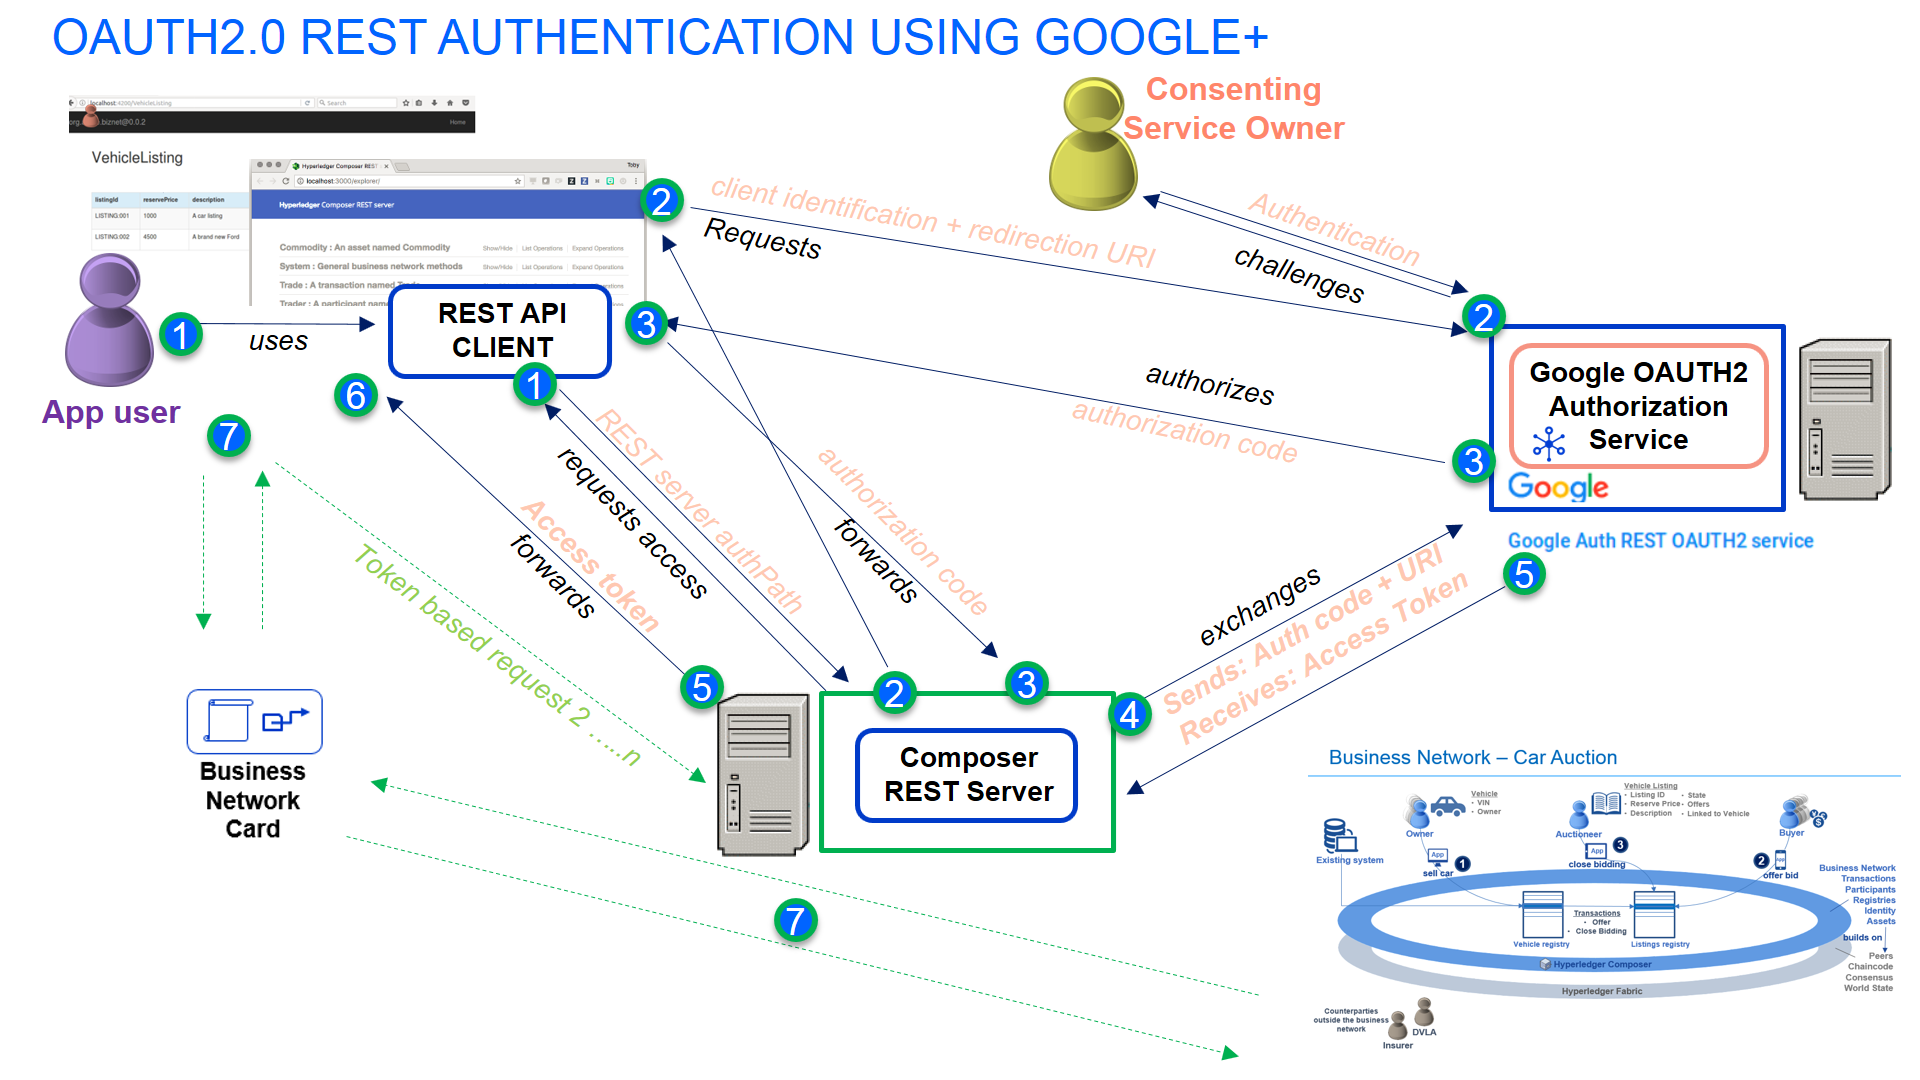
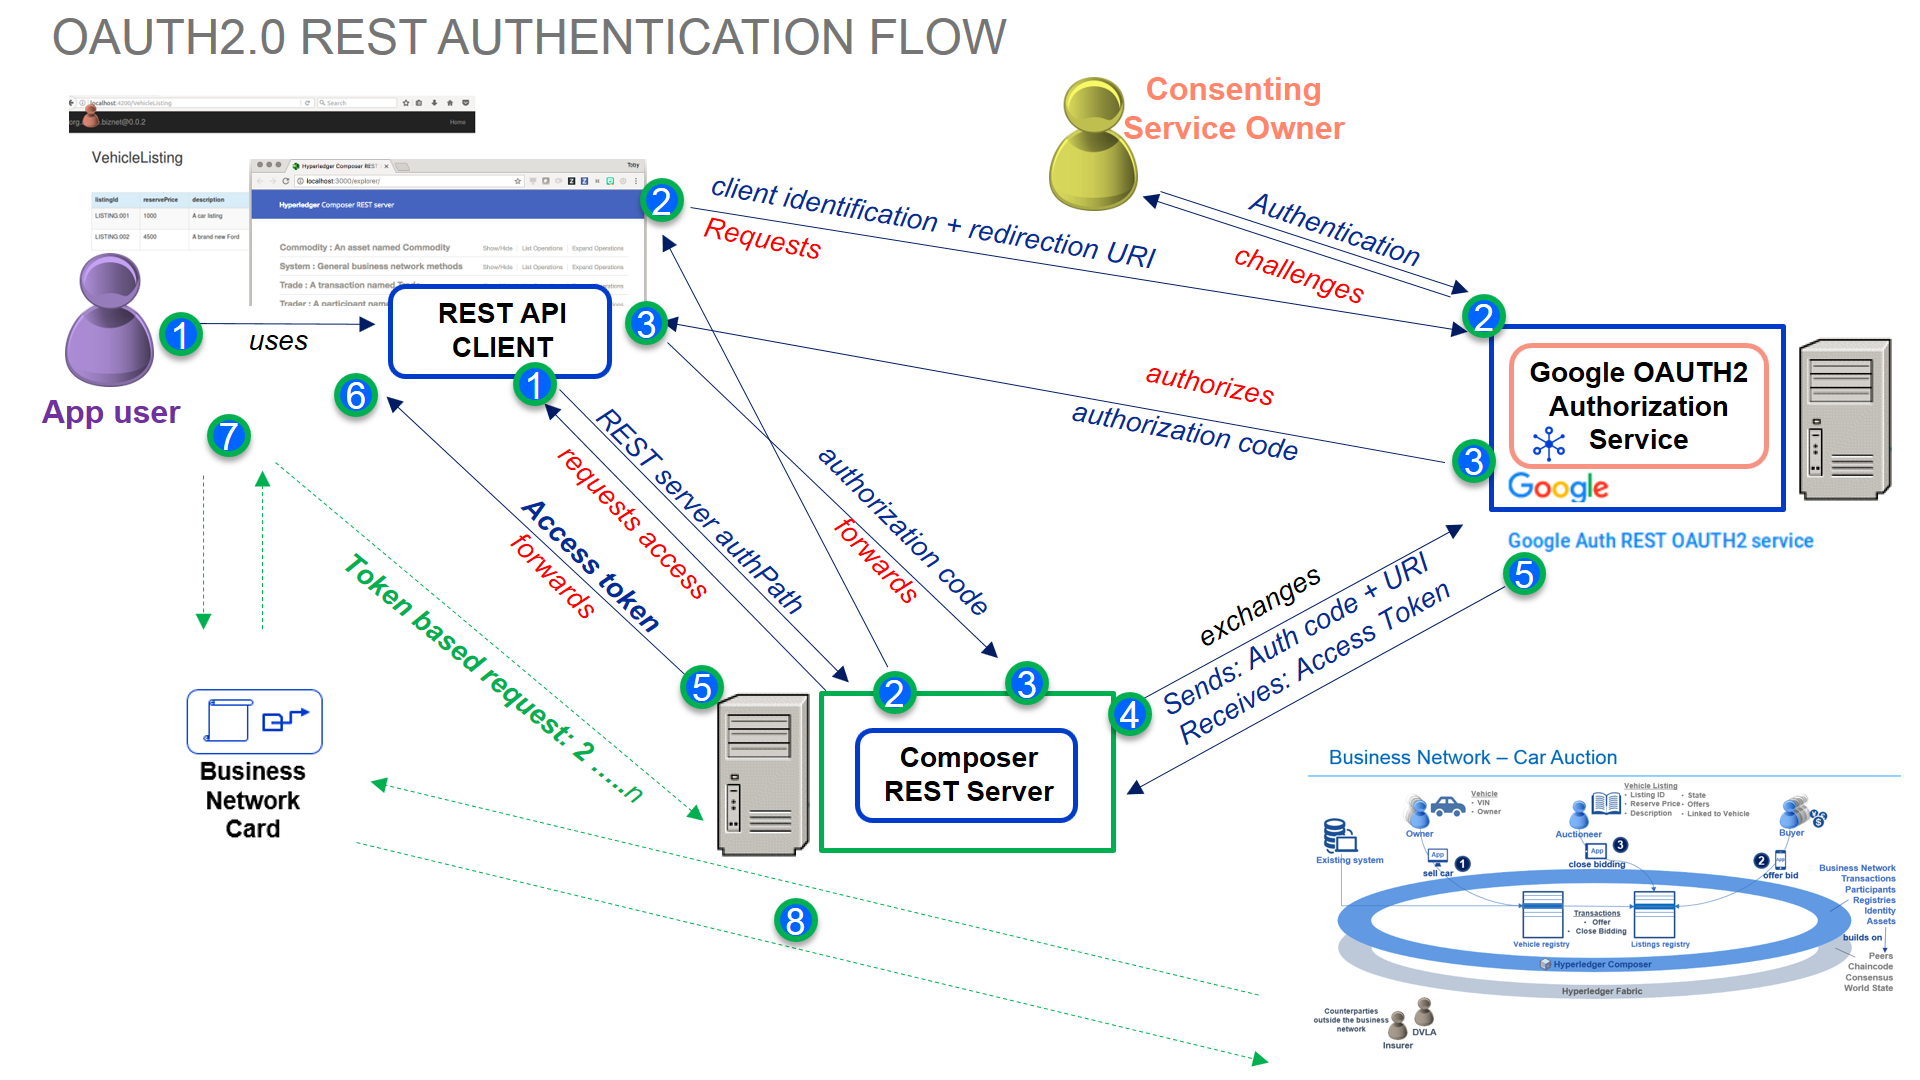
Add overview OAUTH2.0  diagram, add corrections in doc (#3629)
* Add Overview diagram, added some corrections

* Added Google auth img files

diff --git a/packages/composer-website/jekylldocs/tutorials/google_oauth2_rest.md b/packages/composer-website/jekylldocs/tutorials/google_oauth2_rest.md
@@ -10,15 +10,19 @@ sidebar: sidebars/accordion-toc0.md
 # Configuring Google OAUTH2.0 Authentication Strategy with a persistent Composer REST server instance
 
 
-This tutorial provides an insight into configuring the OAUTH2.0 authentication strategy  (eg. for Google, Facebook, Twitter authentication providers etc) to authorize access to resources in a configured REST Server instance - and allow end users of a blockchain network to interact with a deployed smart contract/business network - the Commodity Trading network in this tutorial. You will run the REST server in [multi user mode](https://hyperledger.github.io/composer/next/integrating/enabling-multiuser.html) and test interacting with the network as different blockchain identities, accessing resources through the REST APIs. Ideally, you will need to set up your own Google account / authorization scheme to do this (see appendix on the steps to do this - doesn't take long), or minimally, use the ID/metadata provided in this tutorial. Suffice to say, it uses {{site.data.conrefs.composer_full}} as the underlying blockchain network.
+This tutorial provides an insight into configuring the OAUTH2.0 authentication strategy  (eg. for Google, Facebook, Twitter authentication providers etc) to authorize access to resources in a configured REST Server instance - and allow end users of a blockchain network to interact with a deployed smart contract/business network - the Commodity Trading network in this tutorial (an overview diagram is shown below - a more detailed diagram showing the authentication flow is shown further down). You will run the REST server in [multi user mode](https://hyperledger.github.io/composer/next/integrating/enabling-multiuser.html) and test interacting with the network as different blockchain identities, accessing resources through the REST APIs. Ideally, you will need to set up your own Google account / authorization scheme to do this (see appendix on the steps to do this - doesn't take long), or minimally, use the ID/metadata provided in this tutorial. Suffice to say, it uses {{site.data.conrefs.composer_full}} as the underlying blockchain network.
+
+![Google Authentication and REST Server Overview](../assets/img/tutorials/auth/intro_diagram.png)
+
 
 Note: we have set up the standard 'Development Fabric' network as instructed in Step 3 'Setting up your IDE' described [here](https://hyperledger.github.io/composer/next/installing/development-tools.html)
-
-![Google+ Authentication and Authorization](../assets/img/tutorials/auth/auth_diagram.png)
 
 There are many Passport strategies one can choose from. In a business organisational sense, enterprise strategies such as SAML, JSON Web Tokens (JWT) or LDAP are more appropriate obviously - eg an organisational Active Directory server. We use/enable Google+ APIs as the authentication provider for this tutorial, as its easy for anyone to setup a Google account (see Appendix on how to achieve this) and configure the service / do the tutorial without worrying about middleware prereqs to be installed.
 
 OAUTH2.0 is really an 'authorization protocol' but can be used as a 'delegated authentication scheme' - authentication normally means identifying a user by his or her own credentials, whereas the OAUTH2.0 authentication, as used here, is used as a 'delegate' authentication scheme. There are a number of 'roles' to expand on here by way of background. The Composer REST server's role is to provide access to business network resources, which are protected by the Google+ API OAuth2.0 scheme. The resource owner is the Google+ API user account we set up (described in the appendix) its role is to grant consent (or otherwise) to the client application. The Google+ authorization server requests consent of the resource owner and issues access tokens to REST clients (eg web client apps)  to enable them to access the protected resources.  Smaller API providers may use the same application and URL space in Google+ for both the authorization server and resource server. The idea is that, when a web application user (consuming REST APIs to access a business network) comes along,  he/she doesn't have to pre-register anything ;  the application user is granted consent by virtue of the configured client application (although that does depend on the OAUTH2.0 flow set up). In our tutorial, we are using a browser to consume the REST APIs and see how this authentication flow actually works.
+
+
+![Google+ Authentication and Authorization](../assets/img/tutorials/auth/auth_diagram.png)
 
 An access key is granted following consent ; the token allows a client to access the APIs protected by OAuth2.0. In OAuth 2.0, these access tokens are called “bearer tokens”, and can be used alone, with no signature or cryptography, to access the information. Furthermore, the access token is stored in a cookie in the local storage of the user's web browser. When the user makes a subsequent request, the access token is retrieved from the cookie, and the access token is validated, instead of reauthenticating the user.
 
@@ -271,7 +275,7 @@ You should get an Authorized error and that is because we have configured a Goog
 
     sed -e 's/localhost:/orderer.example.com:/' -e 's/localhost:/peer0.org1.example.com:/' -e 's/localhost:/peer0.org1.example.com:/' -e 's/localhost:/ca.org1.example.com:/'  < $HOME/.composer/cards/jdoe@trade-network/connection.json  > /tmp/connection.json && cp -p /tmp/connection.json $HOME/.composer/cards/jdoe@trade-network
     
-3. We need to export the card to a file - to use for importing elsewhere  - ie the card that we will use to import to the wallet in our browser client - and thefore at this point, we can discard the initial business network card file for `jdoe`.
+3. We need to export the card to a file - to use for importing elsewhere  - ie the card that we will use to import to the wallet in our browser client - and therefore at this point, we can discard the initial business network card file for `jdoe`.
 
      composer card export -f jdoe_exp.card -n jdoe@trade-network ; rm jdoe.card
 
@@ -316,7 +320,7 @@ While our REST server has authenticated to Google+ OAUTH2.0 service - defined by
     
 2. You need to add an identity to the REST client wallet and then set this identity as the default one to use for making API calls. Go to the POST system operation under /Wallets - its called the `/Wallets/Import` endpoint
 
-3. Choose to import the file jdoe.card  - and provide the name of the card as jdoe@trade-network  and click 'Try it Out'
+3. Choose to import the file `jdoe_exp.card`  - and provide the name of the card as jdoe@trade-network  and click 'Try it Out'
 
 ![Import jdoe Wallet](../assets/img/tutorials/auth/import-jdoe-wallet.png)
 
@@ -352,7 +356,7 @@ It should confirm that we are able to interact with the REST Server as `jdoe` in
 
 You should now be able to see all Trader participants currently created. If any ACLs have been set then restrictions on what he can see may apply (they haven't been applied for this current sample network, but examples of ACL rules can be seen in the [ACL tutorial](./acl-trading.html) FYI). Suffice to say that REST APIs accessing a business network are subject to access control - like any other interaction with the business network (such as Playground, JS APIs, CLI etc).
 
-4.  Next, return to the `POST /wallet/import` operation and import the card file `kcoe.card` with the card name set to `kcoe@trade-network` and click on '`Try it Out`to import it - it should return a successful (204) response. 
+4.  Next, return to the `POST /wallet/import` operation and import the card file `kcoe_exp.card` with the card name set to `kcoe@trade-network` and click on '`Try it Out`to import it - it should return a successful (204) response. 
 
 ![Import kcoe to Wallet](../assets/img/tutorials/auth/import-kcoe-wallet.png)
 
@@ -402,15 +406,15 @@ You should see the following page on arrival. Search for ‘Google+’ in the se
 
 <h2 class='everybody'>Step A2:  Create Credentials Service Account  </h2>
 
-1. Once you have enabled the service you will be prompted to create service account Credentials so that you can use the service.  Click ‘Create Credentials’.
+1. Once you have enabled the service you will be prompted to create Service Account Credentials so that you can use the service.  Click ‘Create Credentials’.
 
 2. You will be asked a series of questions to determine what kind of credentials you will need. Give the answers shown in the screenshot below. Choose 'Google+ API'  for the API, Web Server (e.g. Node js, Tomcat) and Application data and 'No' for the Engine question at the bottom.
 
+3. Click on `What credentials do I need`  and hit Continue
+
 ![Setup Credentials](../assets/img/tutorials/auth/google/setup_credentials.png)
 
-3. Next, setup a Credentials service account - with the name 'GoogleAuthService' - select 'Project' in the dropdown and select a role of `Owner` and a type of JSON and 
-
-4. Click on `What credentials do I need`  and hit Continue
+4. Next, setup a Credentials service account - with the name 'GoogleAuthService' - select 'Project' in the dropdown and select a role of `Owner` and a type of JSON and 
 
 5. Click on 'Get your Credentials' - it should download (or prompt to download) the service credentials in JSON format - save these to a safe location.
 
@@ -419,13 +423,13 @@ You should see the following page on arrival. Search for ‘Google+’ in the se
 
 ![Download Credentials](../assets/img/tutorials/auth/google/download-service-creds.png)
     
-4. Save a JSON file with the application credentials. After downloading the credentials, the site will take you back to the credentials homepage and you will see a new service account key.
+6. Save a JSON file with the application credentials. After downloading the credentials, the site will take you back to the credentials homepage and you will see a new service account key.
     
 ![Credentials Service Keys](../assets/img/tutorials/auth/google/credentials-service.png)
 
 <h2 class='everybody'>Step A3:  Create OAUTH2.0 Consent </h2>
 
-5. Go to the ‘OAuth consent screen' tab = you will neeed to give a 'product name'  like 'Google Auth REST OAUTH2 service' - a banner that is shown when consent to authorize a request is requested  (ie when we test it on the REST client in the main tutorial) and an email address, click ‘Save’. 
+7. Go to the ‘OAuth consent screen' tab = you will need to give a 'product name'  like 'Google Auth REST OAUTH2 service' - a banner that is shown when consent to authorize a request is requested  (ie when we test it on the REST client in the main tutorial) and an email address, click ‘Save’. 
 
 The OAuth consent screen is what the user (in the tutorial) will see when they are authenticating themselves against the Google Auth REST Service
 
